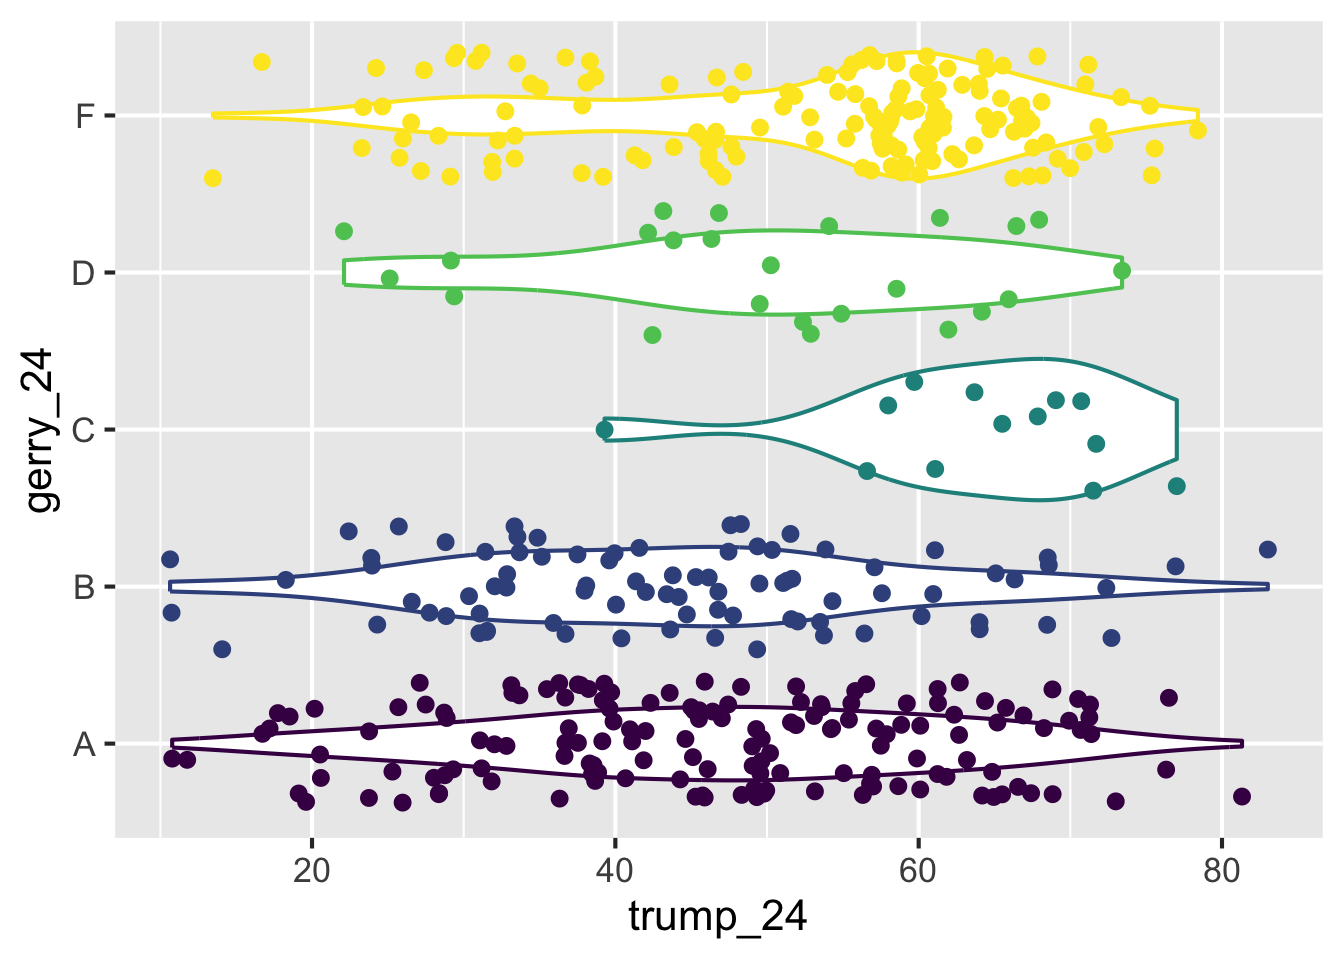
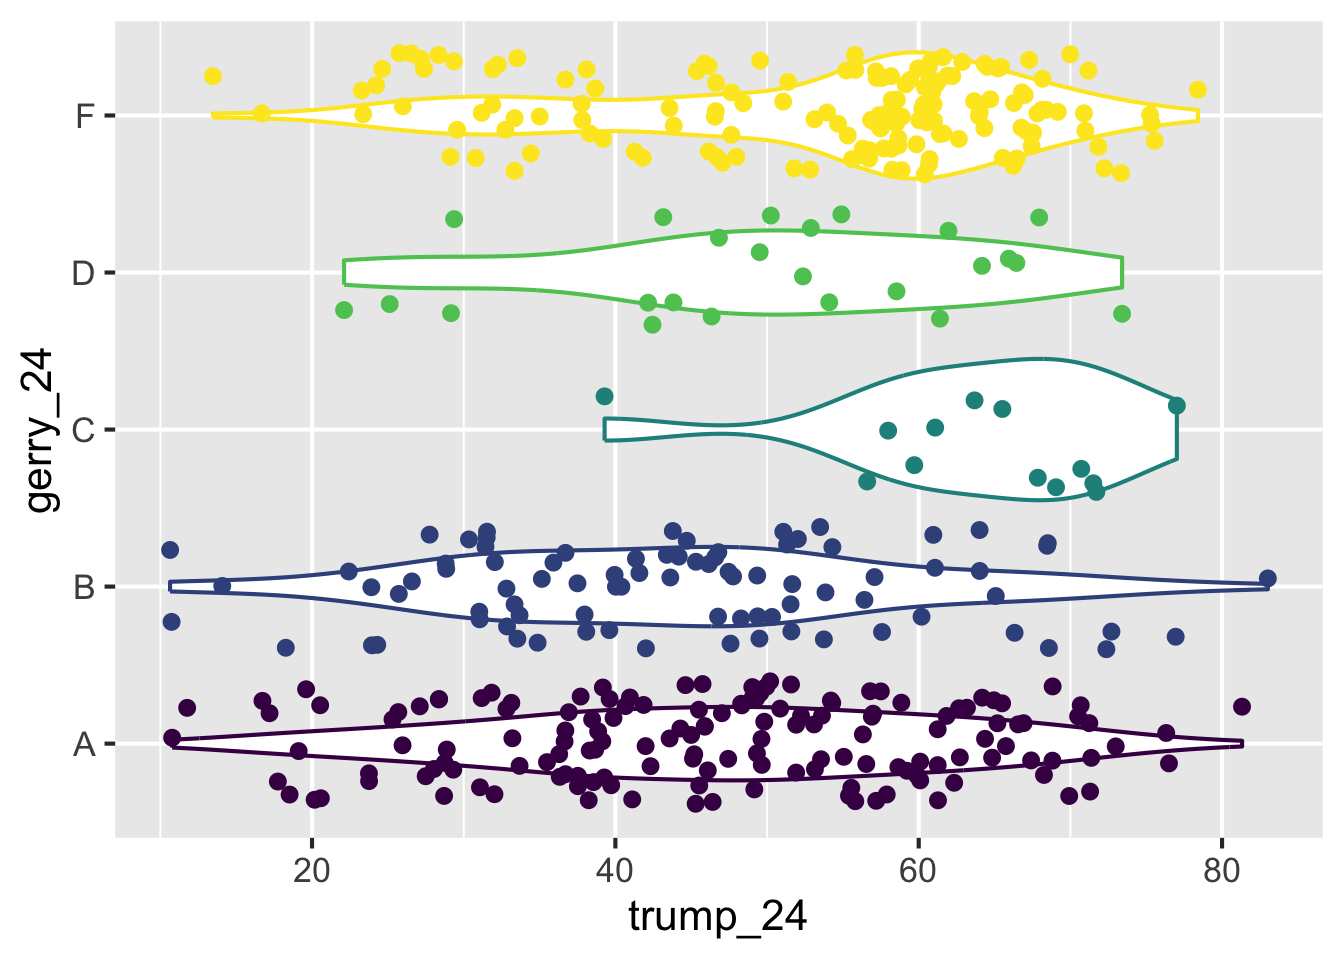
Add AE solutions

diff --git a/style/sta199.scss b/style/sta199.scss
@@ -128,6 +128,9 @@ details summary {
 .materials-icon-slides { color: #133955; }
 .materials-icon-notes { color: #5C97CB; }
 .materials-icon-ae { color: #7FBB9E; }
+/* Application exercise keys: deliberately off-brand purple so they read as
+   distinct from every other material type. */
+.materials-icon-ae-key { color: #7A5FA6; }
 .materials-icon-lab { color: #A19436; }
 .materials-icon-homework { color: #B98391; }
 .materials-icon-other { color: #D29380; }

diff --git a/style/dark.scss b/style/dark.scss
@@ -49,6 +49,7 @@ pre {
 .materials-icon-slides { color: #5C97CB; }
 .materials-icon-notes { color: #7FBB9E; }
 .materials-icon-ae { color: #DACD65; }
+.materials-icon-ae-key { color: #B49BDA; }
 .materials-icon-lab { color: #A19436; }
 .materials-icon-homework { color: #B98391; }
 .materials-icon-other { color: #D29380; }
